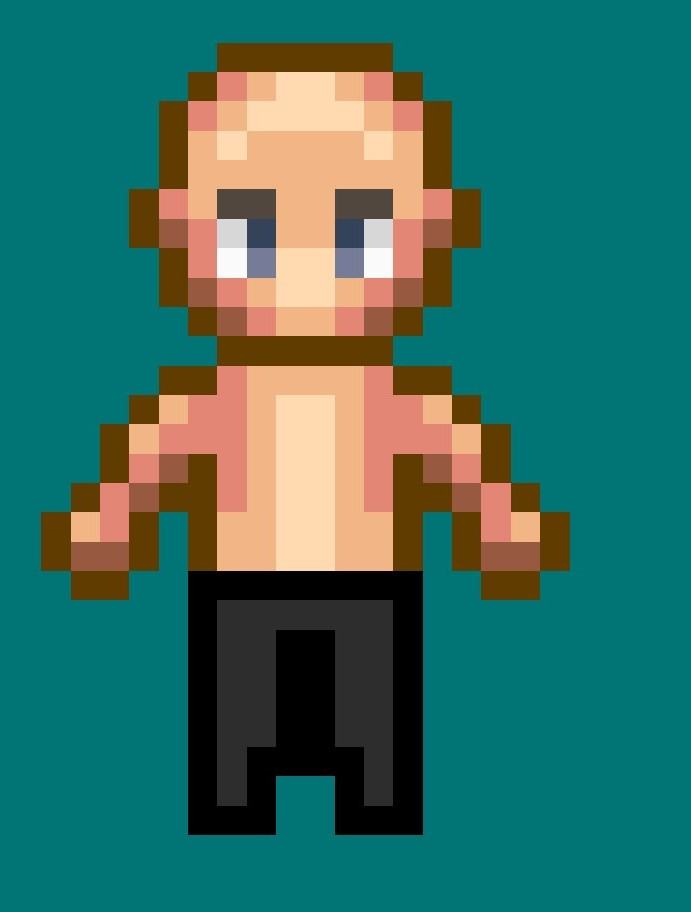
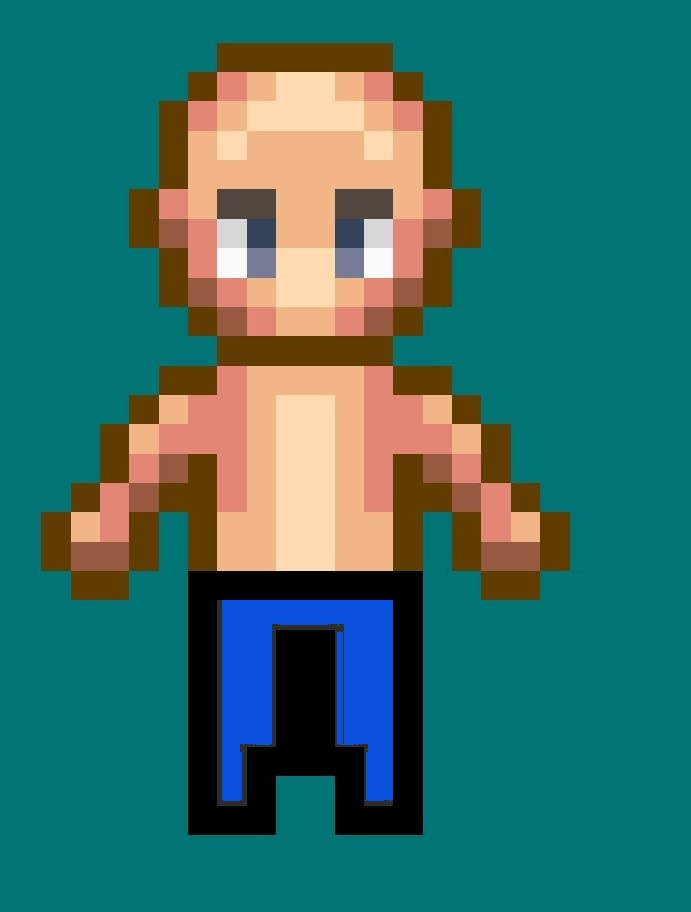
changed colour for panels

Changed region(s): [[0.3039, 0.6447, 0.5774, 0.8904]]

diff --git a/lib/characterCreate.dart b/lib/characterCreate.dart
@@ -18,10 +18,10 @@ class Character {
 }
 
 const List<Character> allCharacters = <Character>[
-  Character('Avatar', Icons.accessibility,Colors.purple, [AssetImage('./assets/graphics-components/close-up-male-2.jpg'), AssetImage('./assets/graphics-components/male-close-up.jpg')]),
-  Character('Eyes', Icons.remove_red_eye, Colors.teal, [AssetImage('./assets/graphics-components/brown-eyes.jpg'),AssetImage('./assets/graphics-components/blue-eyes.jpg')]),
-  Character('Hair', Icons.face, Colors.cyan, [AssetImage('./assets/graphics-components/blonde-hair.jpg'), AssetImage('./assets/graphics-components/red-hair.jpg')]),
-  Character('Shirt', Icons.checkroom, Colors.orange, [AssetImage('./assets/graphics-components/white-shirt.jpg'),AssetImage('./assets/graphics-components/black-shirt.jpg')]),
+  Character('Avatar', Icons.accessibility,Colors.blue, [AssetImage('./assets/graphics-components/close-up-male-2.jpg'), AssetImage('./assets/graphics-components/male-close-up.jpg')]),
+  Character('Eyes', Icons.remove_red_eye, Colors.blue, [AssetImage('./assets/graphics-components/brown-eyes.jpg'),AssetImage('./assets/graphics-components/blue-eyes.jpg')]),
+  Character('Hair', Icons.face, Colors.blue, [AssetImage('./assets/graphics-components/blonde-hair.jpg'), AssetImage('./assets/graphics-components/red-hair.jpg')]),
+  Character('Shirt', Icons.checkroom, Colors.blue, [AssetImage('./assets/graphics-components/white-shirt.jpg'),AssetImage('./assets/graphics-components/black-shirt.jpg')]),
   Character('Pants', Icons.airline_seat_legroom_normal, Colors.blue, [AssetImage('./assets/graphics-components/black-pants.jpg'),AssetImage('./assets/graphics-components/blue-pants.jpg')])
 ];
 
@@ -74,7 +74,7 @@ class _CharacterViewState extends State<CharacterView> {
       ),
       Container(
         height: 47,
-        color: widget.character.color[75],
+        color: Colors.white,
         width: MediaQuery.of(context).size.width,
         child:TextButton(
           child: Text('Procced'),
